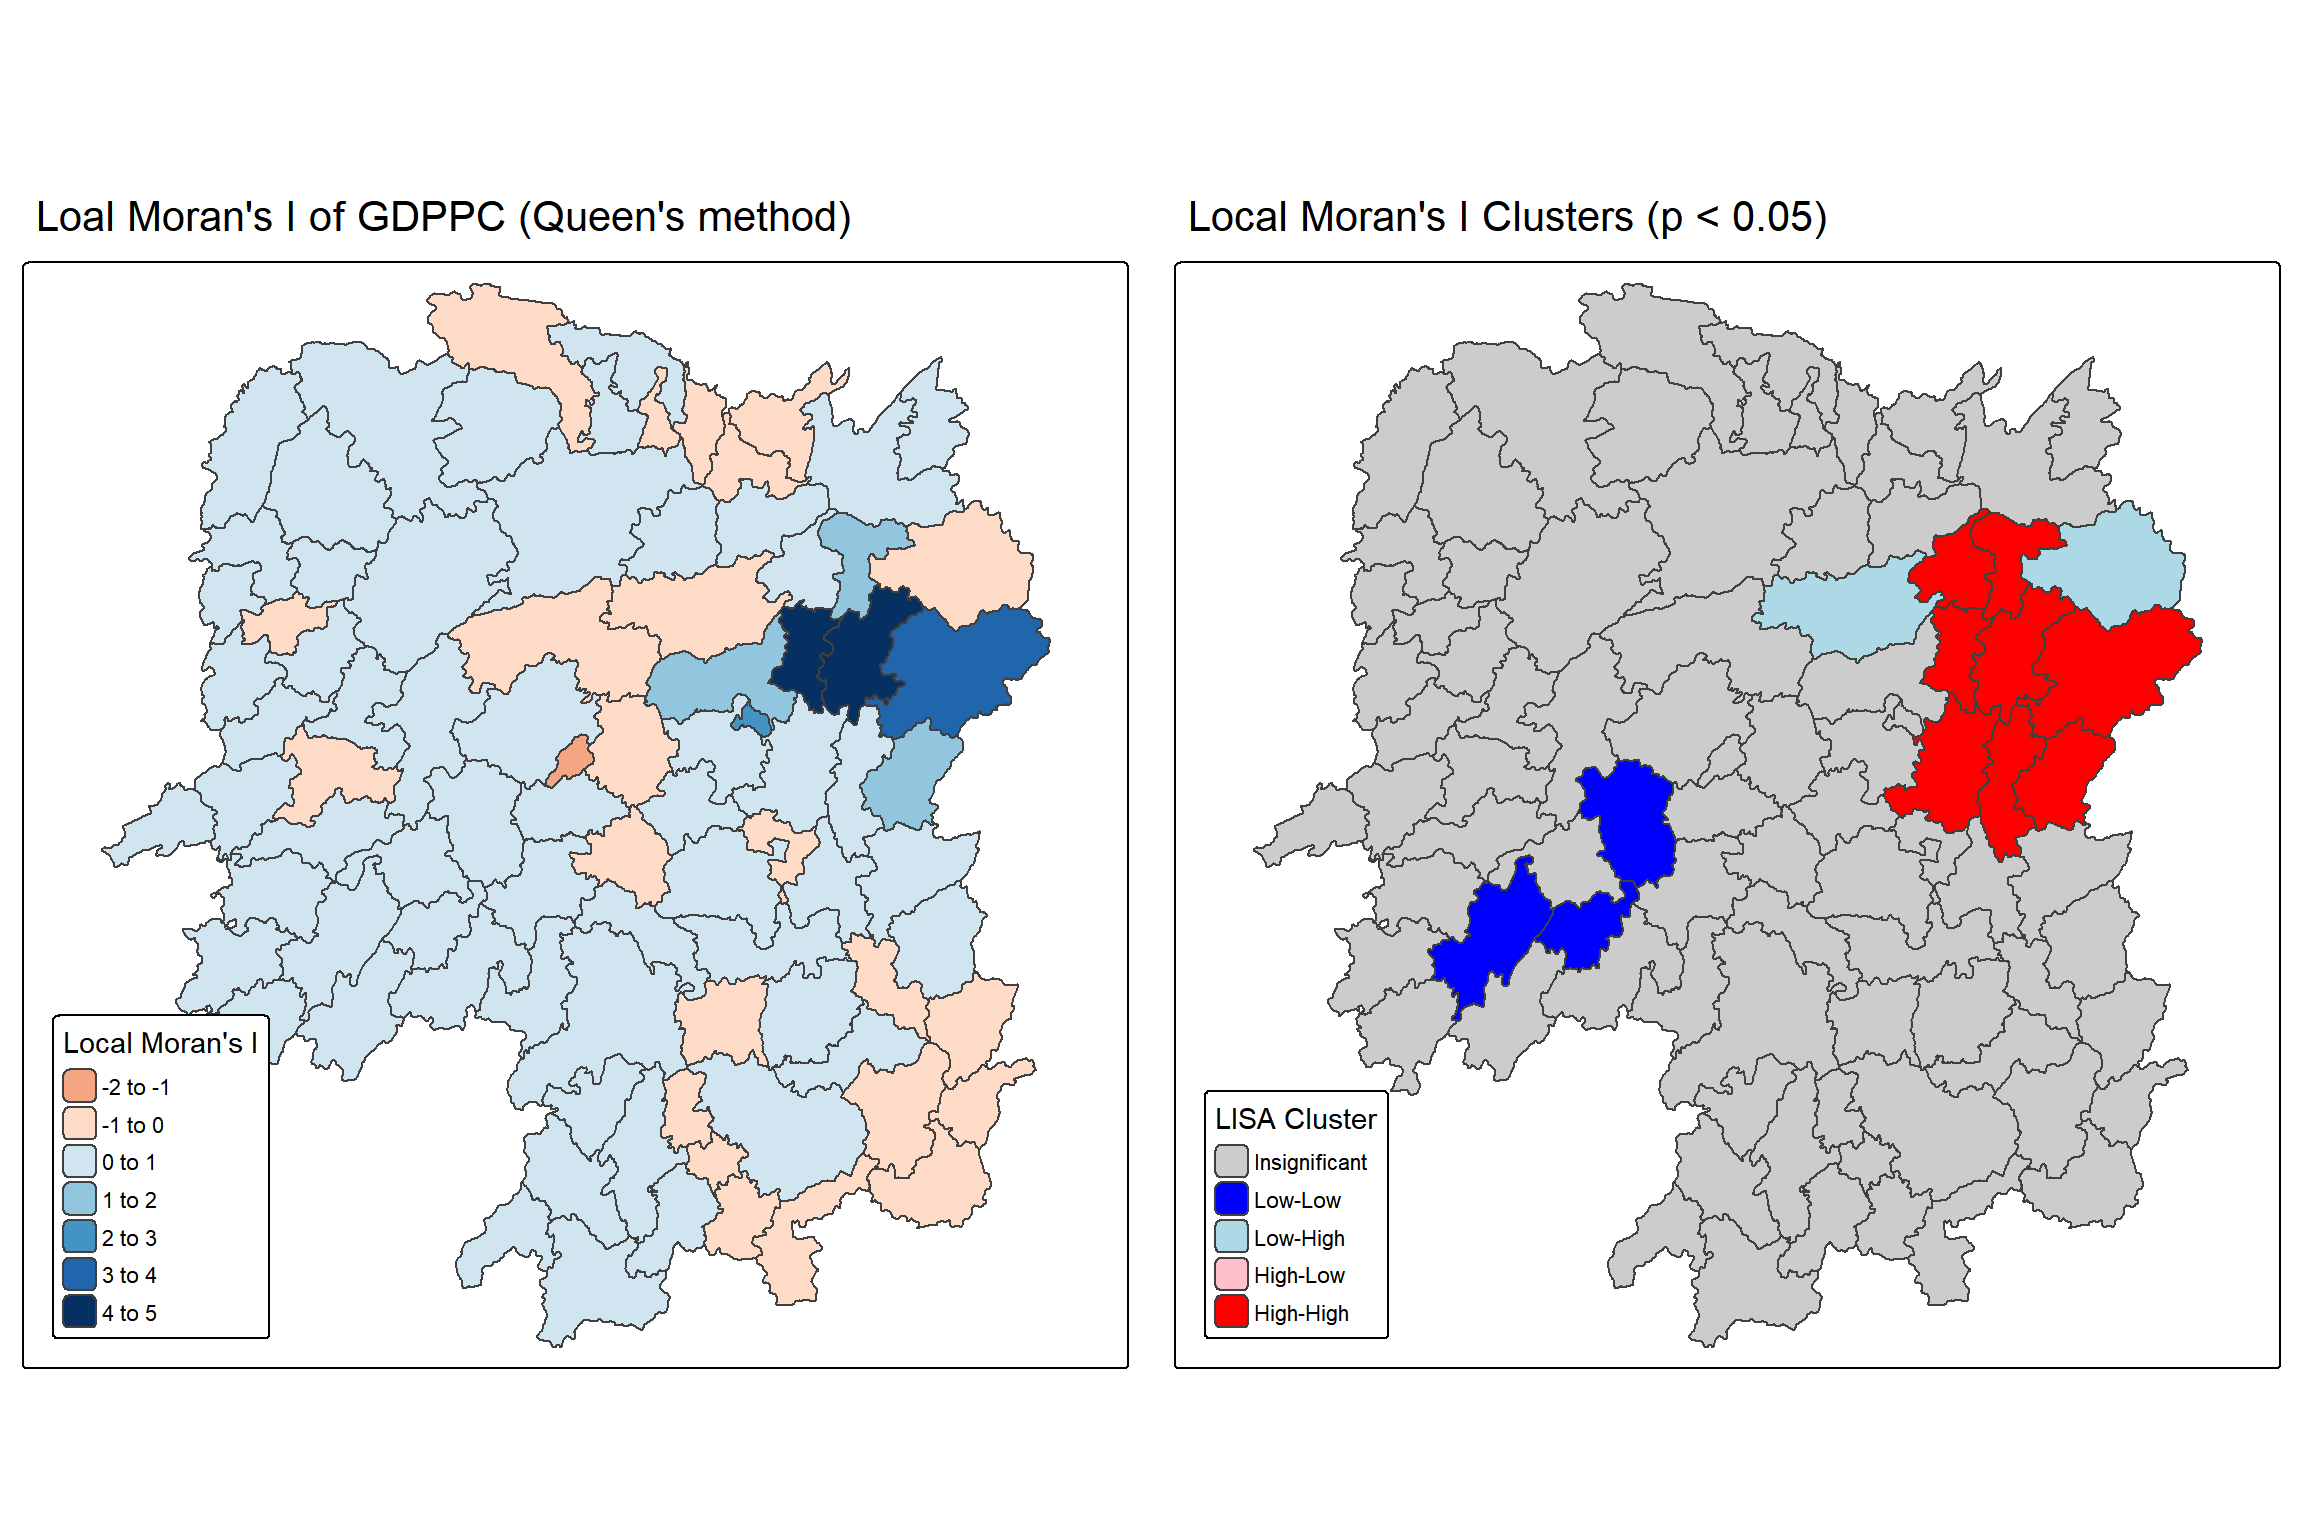
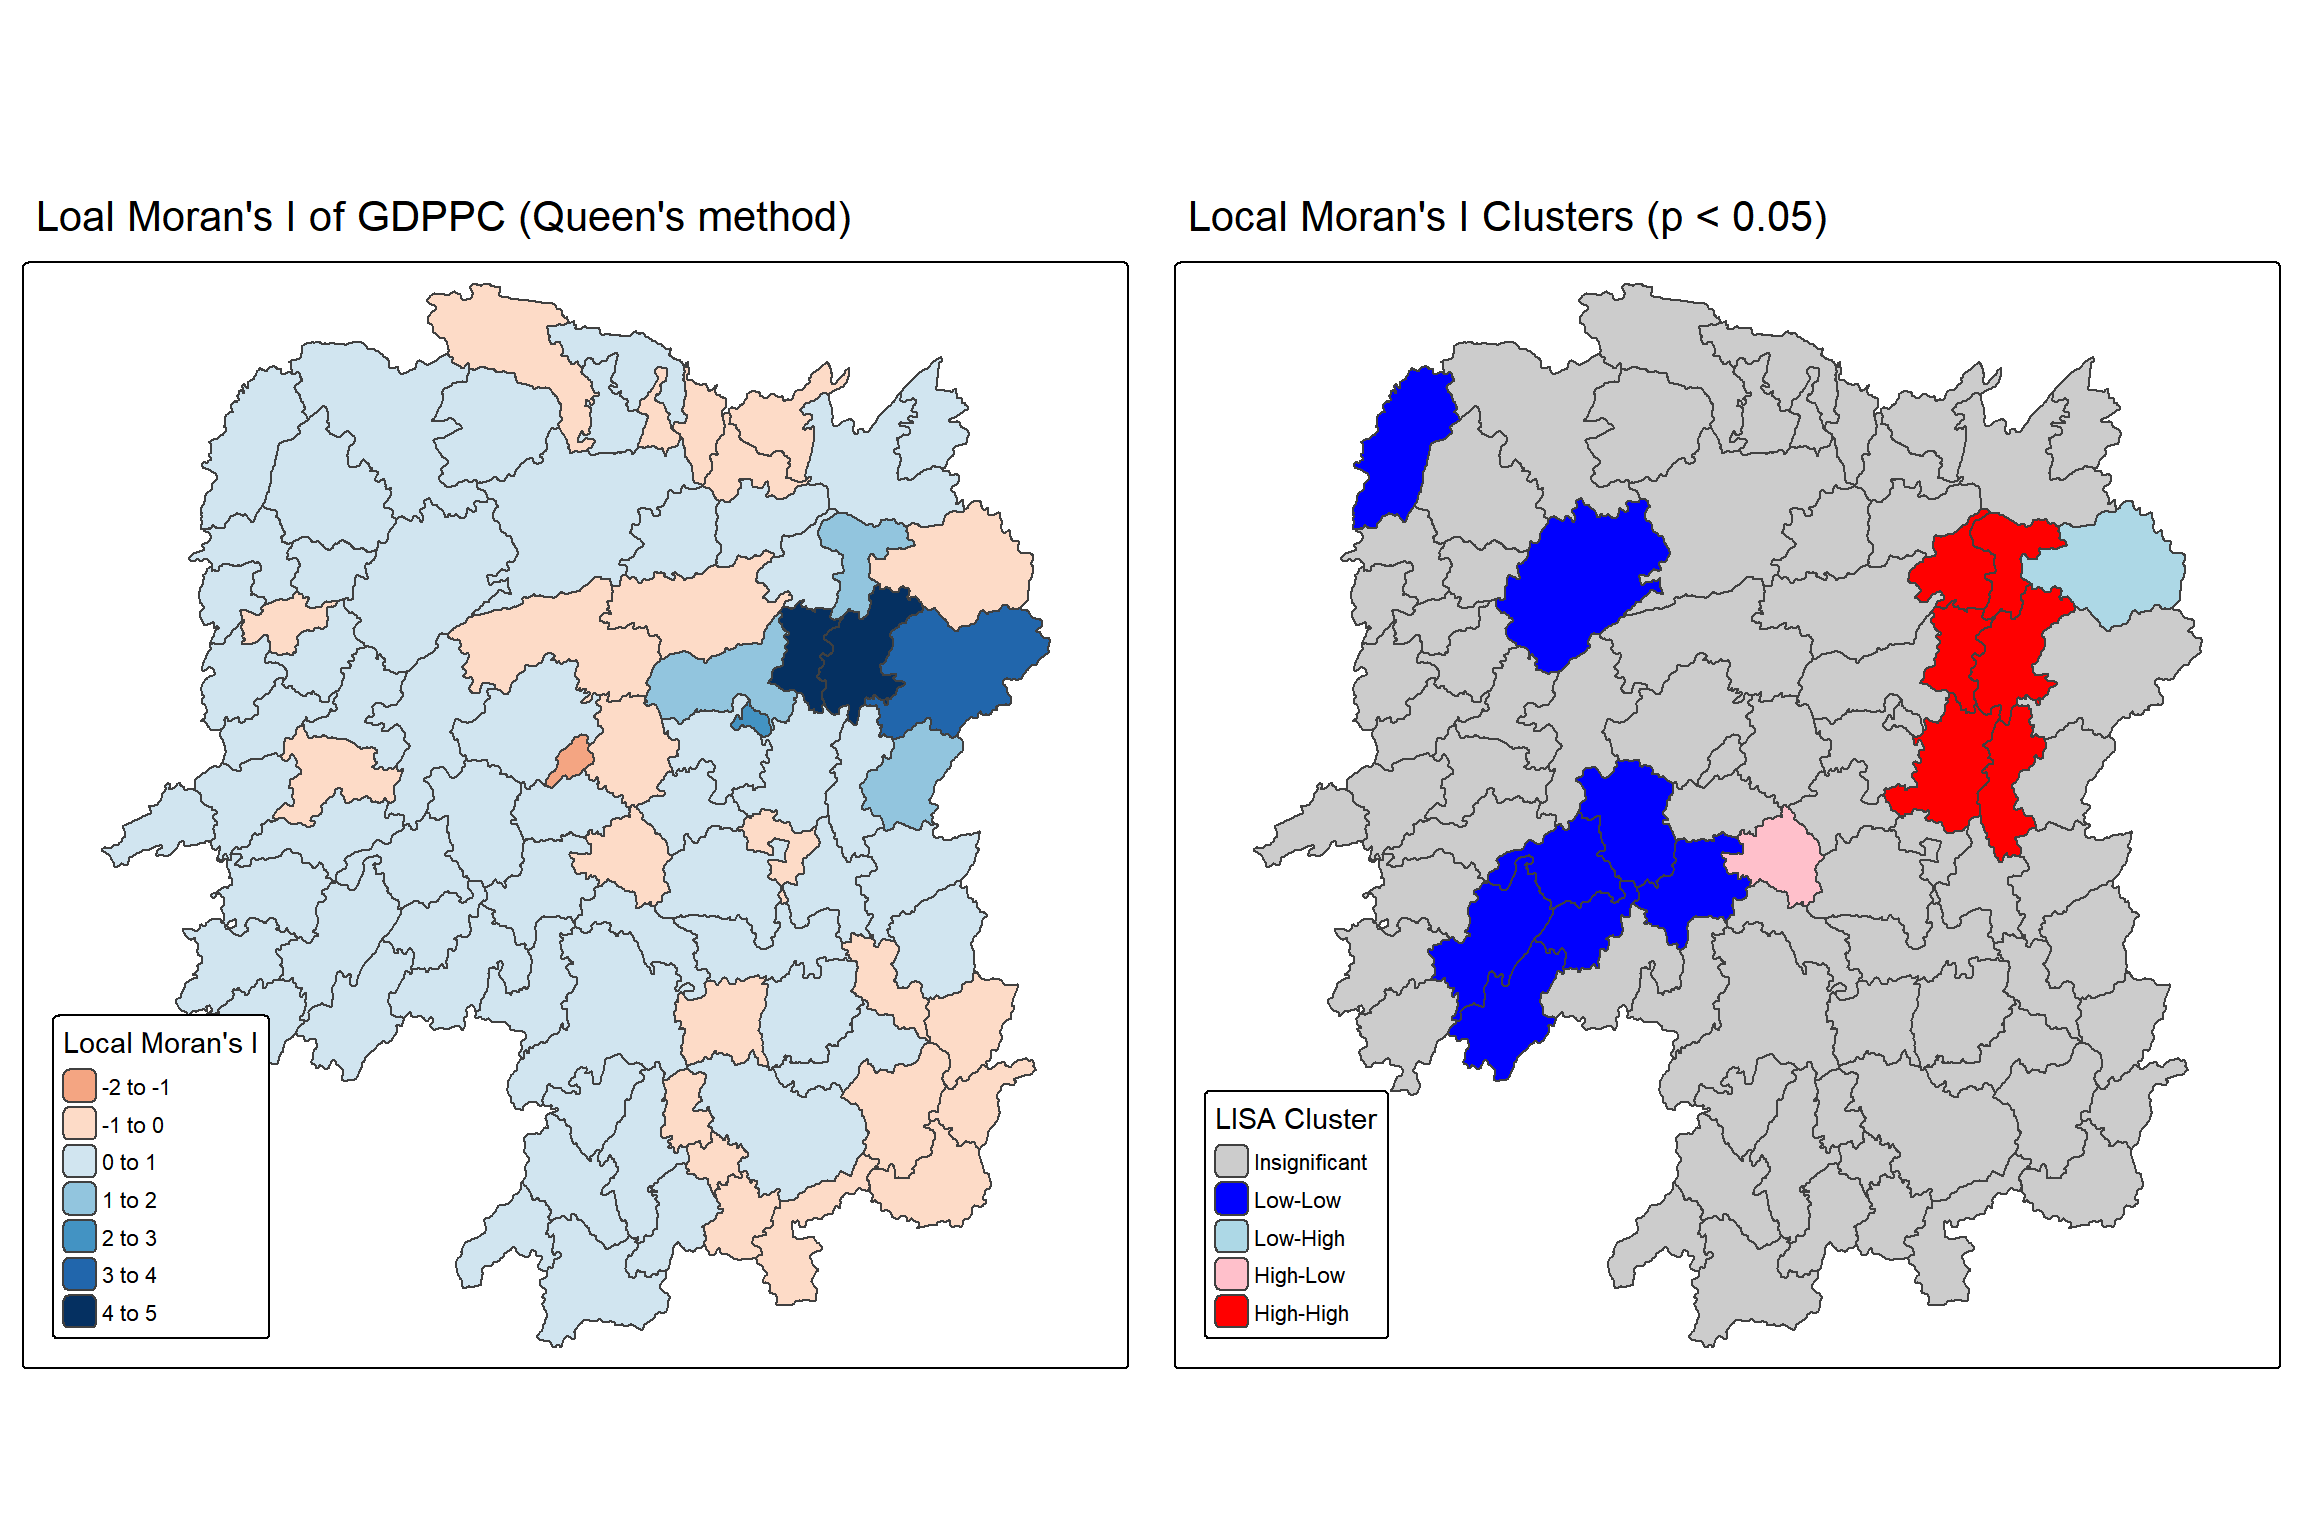
update ex05-2 notes

diff --git a/_site/Hands-on_Ex/Hands-on_Ex05/Hands-on_Ex05-2.html b/_site/Hands-on_Ex/Hands-on_Ex05/Hands-on_Ex05-2.html
@@ -624,7 +624,7 @@ GEOGCRS["WGS 84",
     ID["EPSG",4326]]</code></pre>
 </div>
 </div>
-<p>The code chunk below changes Coordinate Reference System (from user input WGS 84 to projected CRS UTM zone 50N) by using <code>st_transform()</code> and assigning CRS 32650.</p>
+<p>The code chunk below changes Coordinate Reference System (from user input WGS 84 to projected CRS UTM zone 50N) by using <code>st_transform()</code> and assigning CRS 32650. After this transformation, we no longer need to include longlat = TRUE at the following steps.</p>
 <div class="cell">
 <div class="code-copy-outer-scaffold"><div class="sourceCode" id="cb6"><pre class="downlit sourceCode r code-with-copy"><code class="sourceCode R"><span><span class="va">hunan</span> <span class="op">&lt;-</span> <span class="va">hunan</span> <span class="op">%&gt;%</span></span>
 <span>  <span class="fu">st_transform</span><span class="op">(</span>crs <span class="op">=</span> <span class="fl">32650</span><span class="op">)</span></span>
@@ -1053,7 +1053,7 @@ Link number distribution:
 <div class="cell">
 <div class="code-copy-outer-scaffold"><div class="sourceCode" id="cb30"><pre class="downlit sourceCode r code-with-copy"><code class="sourceCode R"><span><span class="va">lisa</span> <span class="op">&lt;-</span> <span class="va">lisa</span> <span class="op">%&gt;%</span></span>
 <span>  <span class="fu">mutate</span><span class="op">(</span></span>
-<span>    LISA_cluster <span class="op">=</span> <span class="fu"><a href="https://rdrr.io/r/base/ifelse.html">ifelse</a></span><span class="op">(</span> <span class="va">p_ii</span> <span class="op">&lt;</span> <span class="fl">0.05</span>, <span class="fu"><a href="https://rdrr.io/r/base/character.html">as.character</a></span><span class="op">(</span><span class="va">mean</span><span class="op">)</span>, <span class="st">"Insignificant"</span><span class="op">)</span>,</span>
+<span>    LISA_cluster <span class="op">=</span> <span class="fu"><a href="https://rdrr.io/r/base/ifelse.html">ifelse</a></span><span class="op">(</span> <span class="va">p_ii_sim</span> <span class="op">&lt;</span> <span class="fl">0.05</span>, <span class="fu"><a href="https://rdrr.io/r/base/character.html">as.character</a></span><span class="op">(</span><span class="va">mean</span><span class="op">)</span>, <span class="st">"Insignificant"</span><span class="op">)</span>,</span>
 <span>    LISA_cluster <span class="op">=</span> <span class="fu"><a href="https://rdrr.io/r/base/factor.html">factor</a></span><span class="op">(</span> <span class="va">LISA_cluster</span>,</span>
 <span>      levels <span class="op">=</span> <span class="fu"><a href="https://rdrr.io/r/base/c.html">c</a></span><span class="op">(</span><span class="st">"Insignificant"</span>, <span class="st">"Low-Low"</span>, <span class="st">"Low-High"</span>, <span class="st">"High-Low"</span>, <span class="st">"High-High"</span><span class="op">)</span><span class="op">)</span><span class="op">)</span></span></code></pre></div><button title="Copy to Clipboard" class="code-copy-button"><i class="bi"></i></button></div>
 </div>
@@ -1205,11 +1205,7 @@ Link number distribution:
 <li><p>High Negative Gi* (large z-score): cold spot</p></li>
 <li><p>Near zero: independence/randomness</p></li>
 </ul>
-<p>Significance is usually tested with <strong>p-values</strong>:</p>
-<ul>
-<li>
-</li><li>Common cut-offs: 0.05, 0.01, 0.001.</li>
-</ul>
+<p>Significance is usually tested with <strong>p-values</strong>.</p>
 <div class="cell">
 <div class="code-copy-outer-scaffold"><div class="sourceCode" id="cb42"><pre class="downlit sourceCode r code-with-copy"><code class="sourceCode R"><span><span class="fu"><a href="https://rdrr.io/r/base/Random.html">set.seed</a></span><span class="op">(</span><span class="fl">1234</span><span class="op">)</span></span>
 <span><span class="va">HCSA_fdw</span> <span class="op">&lt;-</span> <span class="va">hunan_fdw</span> <span class="op">%&gt;%</span></span>
@@ -1360,7 +1356,7 @@ Note
 </div>
 </section></section></section><section id="plotting-summary" class="level2" data-number="5"><h2 data-number="5" class="anchored" data-anchor-id="plotting-summary">
 <span class="header-section-number">5</span> Plotting Summary</h2>
-<p>Both Local Moran’s I (LISA) and Hot Spot/Cold Spot Analysis (HCSA) reveal similar spatial patterns of GDPPC in Hunan. LISA identifies hot clusters in the eastern–central counties and cold clusters in the western–southern counties, while also detecting spatial outliers (e.g.low surrounded by high). HCSA confirms the same hot spots and cold spots, but focuses only on statistically significant clustering, without distinguishing outliers. Thus, LISA provides finer diagnostic detail, whereas HCSA highlights the most robust clusters.</p>
+<p>Both Local Moran’s I (LISA) and Hot Spot/Cold Spot Analysis (HCSA) reveal similar spatial patterns of GDPPC in Hunan. LISA identifies hot clusters in the eastern–central counties and cold clusters in the western–southern counties, while also detecting spatial outliers (e.g.low surrounded by high and/or high surrounded by low). HCSA confirms the same hot spots and cold spots, but focuses only on statistically significant clustering, without distinguishing outliers. Thus, LISA provides finer diagnostic detail, whereas HCSA highlights the most robust clusters.</p>
 <p>The code chunk below shows the LISA map and HCSA map together.</p>
 <div class="cell">
 <div class="code-copy-outer-scaffold"><div class="sourceCode" id="cb48"><pre class="downlit sourceCode r code-with-copy"><code class="sourceCode R"><span><span class="fu">tmap_arrange</span><span class="op">(</span><span class="va">lisa_map</span>, <span class="va">HCSA_map</span>, asp<span class="op">=</span><span class="fl">1</span>, ncol<span class="op">=</span><span class="fl">2</span><span class="op">)</span></span></code></pre></div><button title="Copy to Clipboard" class="code-copy-button"><i class="bi"></i></button></div>
